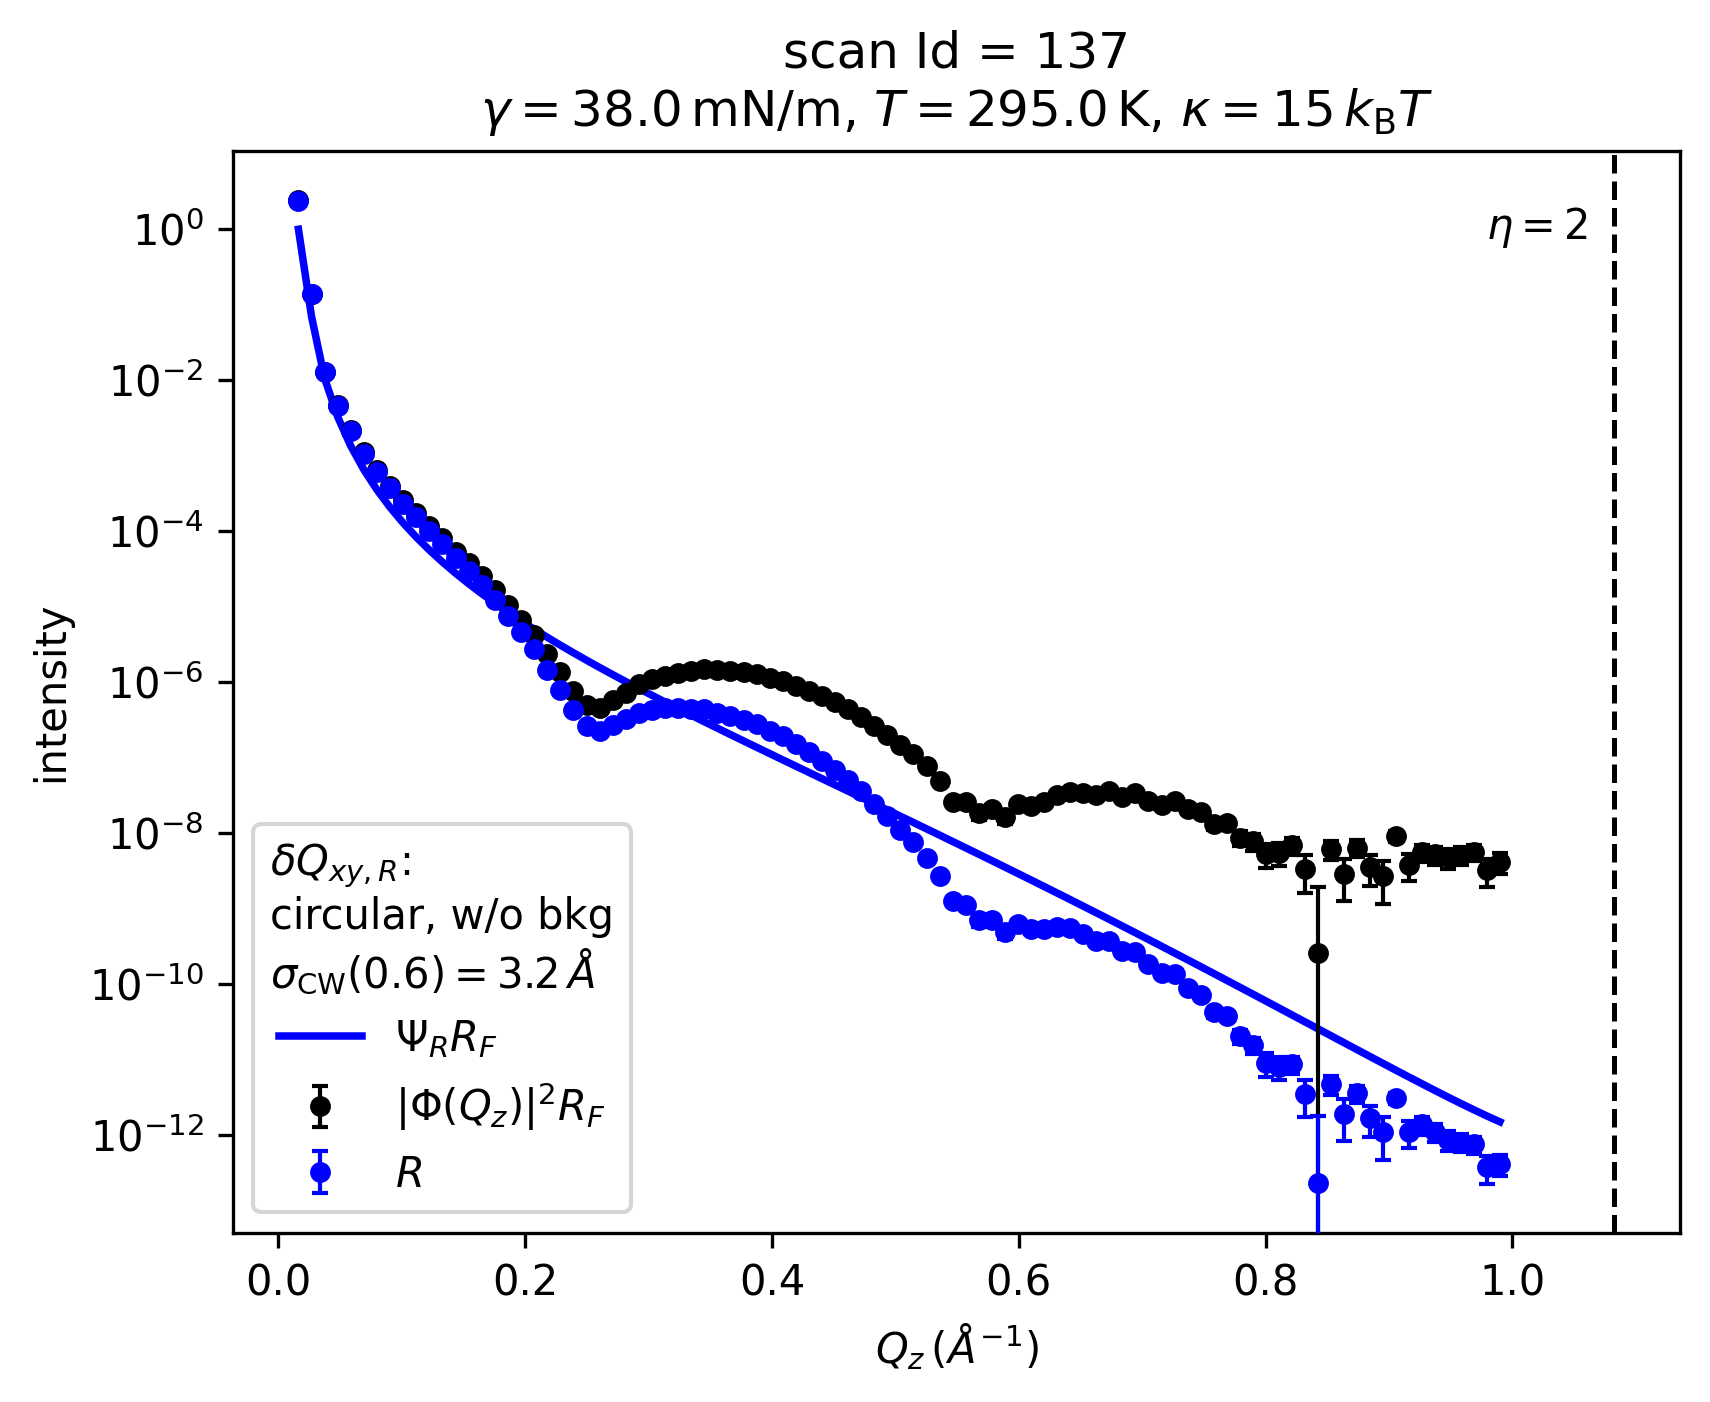
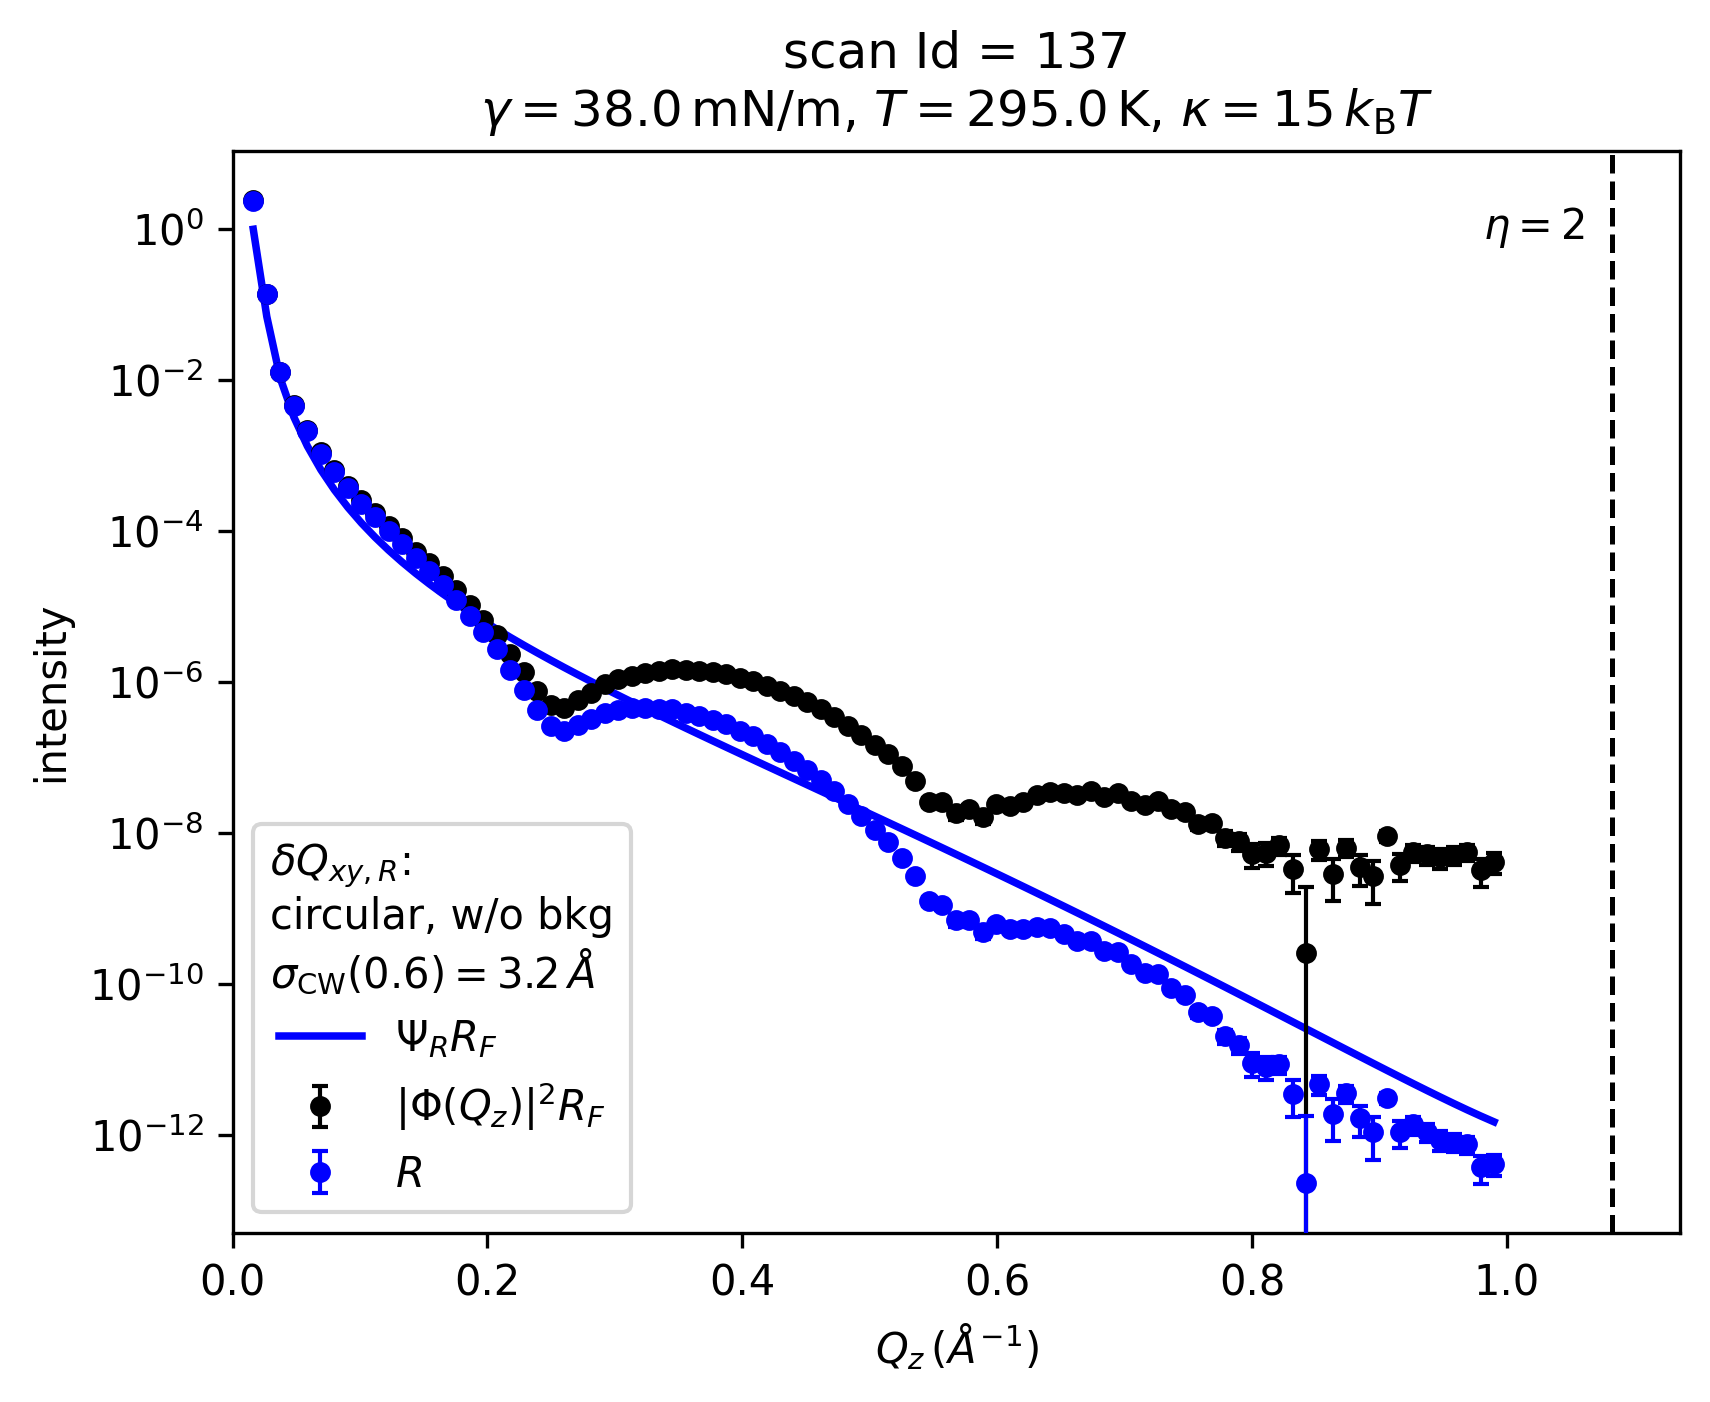
final plotting

diff --git a/pseudo_xrr/plot.py b/pseudo_xrr/plot.py
@@ -7,6 +7,212 @@ Created on Tue Mar 31 11:46:59 2026
 import numpy as np
 import matplotlib.pyplot as plt
 
+def GIXOS_raw_plot(
+    GIXOSdata_q,
+    GIXOSbkg_q,
+    GIXOS_ana,
+    *,
+    metadata=None,
+    title=None,
+    show=True,
+    add_top_qz_axis=True
+):
+    """
+    Plot the effect of GIXOS background correction for the selected qxy0 column.
+
+    This function compares, at the selected qxy0 column:
+
+    - raw GIXOS data
+    - chamber background
+    - chamber-background-subtracted data
+    - bulk background used for subtraction
+    - final corrected data with error bars
+
+    The x-axis is beta (deg), taken from the "tt" field. Optionally, a top
+    axis showing Qz is added if Qz information is available.
+
+    Parameters
+    ----------
+    GIXOSdata_q : dict
+        Raw sample data dictionary after conversion to q-space.
+
+    GIXOSbkg_q : dict
+        Chamber background data dictionary after conversion to q-space.
+
+    GIXOS_ana : dict
+        Output dictionary from `GIXOS_background_corr()`.
+
+    metadata : dict, optional
+        Metadata dictionary. If None, `GIXOS_ana["metadata"]` is used.
+
+    title : str, optional
+        Plot title.
+
+    show : bool, optional
+        If True, show the figure. Default is True.
+
+    add_top_qz_axis : bool, optional
+        If True and Qz is available, add a top x-axis labelled by Qz.
+        Default is True.
+
+    Returns
+    -------
+    fig : matplotlib.figure.Figure
+        The generated figure.
+
+    ax : matplotlib.axes.Axes
+        Main axes.
+    """
+    if metadata is None:
+        metadata = GIXOS_ana.get("metadata", None)
+
+    if metadata is None:
+        raise ValueError("metadata is required either explicitly or in GIXOS_ana['metadata'].")
+
+    if "PseudoR" not in metadata or metadata["PseudoR"] is None:
+        raise ValueError("metadata['PseudoR'] is required.")
+    if "qxy0_select_idx" not in metadata["PseudoR"]:
+        raise ValueError("metadata['PseudoR']['qxy0_select_idx'] is required.")
+
+    col_idx = int(metadata["PseudoR"]["qxy0_select_idx"])
+
+    # x-axis: beta / tt
+    beta = np.asarray(GIXOSdata_q["tt"], dtype=float).ravel()
+
+    # raw sample and chamber background
+    y_raw = np.asarray(GIXOSdata_q["Intensity"][:, col_idx], dtype=float).ravel()
+    y_bkg = np.asarray(GIXOSbkg_q["Intensity"][:, col_idx], dtype=float).ravel()
+
+    # chamber-subtracted data
+    y_chamber_sub = y_raw - y_bkg
+
+    # bulk background at selected column
+    if "bulkbkg" not in GIXOS_ana or GIXOS_ana["bulkbkg"] is None:
+        y_bulk = np.full_like(beta, np.nan, dtype=float)
+    else:
+        if "Intensity_at_GIXOS" in GIXOS_ana["bulkbkg"] and GIXOS_ana["bulkbkg"]["Intensity_at_GIXOS"] is not None:
+            bulk_arr = np.asarray(GIXOS_ana["bulkbkg"]["Intensity_at_GIXOS"], dtype=float)
+
+            if bulk_arr.ndim == 2:
+                # if corrected data has had bulk columns removed, shapes may differ
+                if bulk_arr.shape[1] > col_idx:
+                    y_bulk = bulk_arr[:, col_idx].ravel()
+                else:
+                    # fallback: use the last available column if selected col was removed
+                    y_bulk = bulk_arr[:, -1].ravel()
+            else:
+                y_bulk = bulk_arr.ravel()
+        else:
+            y_bulk = np.full_like(beta, np.nan, dtype=float)
+
+    # corrected data and error
+    y_corr = np.asarray(GIXOS_ana["Intensity"][:, col_idx], dtype=float).ravel()
+    err_corr = np.asarray(GIXOS_ana["error"][:, col_idx], dtype=float).ravel()
+
+    fig, ax = plt.subplots(figsize=(5.8, 4.5))
+
+    ax.plot(beta, y_raw, color="k", linewidth=1.4, label="raw GIXOS")
+    ax.plot(beta, y_bkg, color="gray", linewidth=1.4, label="chamber bkg")
+    ax.plot(beta, y_chamber_sub, color="b", linewidth=1.4, label="raw - chamber bkg")
+
+    if np.any(np.isfinite(y_bulk)):
+        ax.plot(beta, y_bulk, color="orange", linewidth=1.6, label="bulk bkg")
+
+    ax.errorbar(
+        beta, y_corr, yerr=err_corr,
+        fmt="o", markersize=4,
+        color="r", ecolor="r",
+        elinewidth=1, capsize=2,
+        label="corrected"
+    )
+
+    ax.axhline(0, color="k", linestyle="--", linewidth=1.0, alpha=0.7)
+
+    ax.set_xlabel(r"$\beta\;[\mathrm{deg}]$")
+    ax.set_ylabel("intensity")
+
+    # title
+    title_lines = []
+    if title is not None:
+        title_lines.append(title)
+    else:
+        title_lines.append("GIXOS background correction")
+
+    if "measurements" in metadata and metadata["measurements"] is not None:
+        scan_val = metadata["measurements"].get("scan", None)
+        if scan_val is not None:
+            scan_arr = np.asarray(scan_val).ravel()
+            if scan_arr.size == 1:
+                title_lines.append(f"scan Id = {int(scan_arr[0])}")
+            elif scan_arr.size > 1:
+                title_lines.append(f"scan Id = {int(np.min(scan_arr))} - {int(np.max(scan_arr))}")
+
+    ax.set_title("\n".join(title_lines))
+
+    ax.legend()
+    
+    # ------------------------------------------------------------
+    # set y-limits using only data above 2*Qc
+    # ------------------------------------------------------------
+    if "sample_params" in metadata and metadata["sample_params"] is not None:
+        Qc = metadata["sample_params"].get("Qc", None)
+    else:
+        Qc = None
+    
+    if Qc is not None and "Qz" in GIXOSdata_q:
+        qz_arr = np.asarray(GIXOSdata_q["Qz"][:, col_idx], dtype=float).ravel()
+        mask_ylim = qz_arr > 2.0 * float(Qc)
+    
+        if np.count_nonzero(mask_ylim) > 3:
+            y_for_ylim = []
+    
+            for arr in [y_raw, y_bkg, y_chamber_sub, y_bulk, y_corr]:
+                arr = np.asarray(arr, dtype=float).ravel()
+                if arr.size == qz_arr.size:
+                    vals = arr[mask_ylim]
+                    vals = vals[np.isfinite(vals)]
+                    if vals.size > 0:
+                        y_for_ylim.append(vals)
+    
+            if len(y_for_ylim) > 0:
+                y_for_ylim = np.concatenate(y_for_ylim)
+    
+                ymin = np.min(y_for_ylim)
+                ymax = np.max(y_for_ylim)
+    
+                if np.isfinite(ymin) and np.isfinite(ymax) and ymax > ymin:
+                    pad = 0.05 * (ymax - ymin)
+                    ax.set_ylim(ymin - pad, ymax + pad)
+    
+    xmin, xmax = ax.get_xlim()
+    ax.set_xlim(left=0, right=xmax)
+    fig.tight_layout()
+
+    # optional top axis: Qz
+    if add_top_qz_axis and "Qz" in GIXOSdata_q:
+        qz_arr = np.asarray(GIXOSdata_q["Qz"][:, col_idx], dtype=float).ravel()
+
+        if qz_arr.size == beta.size and beta.size > 1:
+            ax_top = ax.twiny()
+            ax_top.set_xlim(ax.get_xlim())
+
+            # choose a few tick positions from bottom axis and map nearest beta->Qz
+            beta_ticks = ax.get_xticks()
+            qz_ticklabels = []
+            for bt in beta_ticks:
+                idx = int(np.argmin(np.abs(beta - bt)))
+                qz_ticklabels.append(f"{qz_arr[idx]:.2f}")
+
+            ax_top.set_xticks(beta_ticks)
+            ax_top.set_xticklabels(qz_ticklabels)
+            ax_top.set_xlabel(r"$Q_z\;[\AA^{-1}]$")
+
+    if show:
+        plt.show()
+
+    return fig, ax
+
+
 # -----------------------------------------------------------------------------
 # qxy dependence fit / predict and kappa value
 # -----------------------------------------------------------------------------
@@ -413,6 +619,8 @@ def GIXOS_RRF_plot(
     # -------------------------------------------------------------------------
 
     ax.legend(title=legend_title, title_fontsize=10)
+    xmin, xmax = ax.get_xlim()
+    ax.set_xlim(left=0, right=xmax) 
     fig.tight_layout()
 
     if show:
@@ -622,6 +830,9 @@ def GIXOS_R_plot(
         ax.set_title("Reflectivity analysis")
 
     ax.legend(title=legend_title, title_fontsize=10)
+    
+    xmin, xmax = ax.get_xlim()
+    ax.set_xlim(left=0, right=xmax)
     fig.tight_layout()
 
     if show:

diff --git a/p08_test_pXRR.py b/p08_test_pXRR.py
@@ -38,22 +38,16 @@ GIXOSbkg_q = GIXOS_th2q(GIXOSbkg)
 GIXOS_ana = GIXOS_background_corr(GIXOSdata_q, GIXOSbkg_q, bulkbkg_mode = 2, bulkbkg_offset_lb=0.9)
 
 #%%
-# Create the plot
-plt.figure()
-plt.plot(GIXOSdata["tt"], GIXOSdata["Intensity"][:,2])
-plt.plot(GIXOSbkg["tt"], GIXOSbkg["Intensity"][:,2])
-plt.plot(GIXOSdata["tt"], GIXOSdata["Intensity"][:,2]-GIXOSbkg["Intensity"][:,2])
-plt.errorbar(GIXOS_ana["tt"], GIXOS_ana["Intensity"][:,2], yerr = GIXOS_ana["error"][:,2], fmt ='o', markersize = 1, capsize = 3)
-plt.plot(GIXOS_ana["tt"], GIXOS_ana["bulkbkg"]["Intensity_at_GIXOS"][:,2])
-# Set log10 scale on the y-axis
-#plt.yscale('log')
-# Add labels and title
-plt.xlabel("X values")
-plt.ylabel("Y values (log scale)")
-plt.ylim([0, np.max(GIXOSdata["Intensity"][20:,2])*2])
-plt.legend()
-plt.grid(True, which="both", ls="--", lw=0.5)
-plt.show()
+fig_GIXOS, ax_GIXOS = GIXOS_raw_plot(
+    GIXOSdata_q,
+    GIXOSbkg_q,
+    GIXOS_ana,
+    metadata=GIXOS_ana["metadata"],
+    show=False
+)
+
+outfile = make_filename(GIXOS_ana["metadata"], suffix="GIXOS.png")
+fig_GIXOS.savefig(outfile, dpi=300, bbox_inches="tight")
 
 #%% from here on the operation will directly add results into the original dictionary variable (shared memory)
 #%% qxy dependence
@@ -61,26 +55,6 @@ _, qxy_dependence_fit = GIXOS_qxy_dependence(GIXOS_ana, GIXOS_ana['metadata']['d
 
 #%% processing pseudo
 _ = GIXOS2R(GIXOS_ana, transmission_corr = True, footprint_effect=True, use_approx=True)
-
-# #%%
-# RFscaling_ref = GIXOS_ana["metadata"]['I0'] * GIXOS_ana["metadata"]['sample_params']['rho_b'] ** 2 / np.sin(np.radians(GIXOS_ana["metadata"]['instrument']['alpha'])) *GIXOS_ana['talpha_sqr']
-
-# # Create the plot
-# plt.figure()
-# plt.plot(SF_ref[:,0],SF_ref[:,1]/RFscaling_ref/ (pi / 180) ** 2, label = 'matlab structure factor')
-# plt.errorbar(GIXOS_ana["refl"][:,0], GIXOS_ana["refl"][:,1]/GIXOS_ana["fresnel"][:,1], GIXOS_ana["refl"][:,2]/GIXOS_ana["fresnel"][:,1], fmt ='o', markersize = 1, capsize = 3, label = 'pseudoR')
-# plt.plot(R_ref[:,0],R_ref[:,1]/(0.0218/2/R_ref[:,0])**4/RFscaling_ref/ (pi / 180) ** 2, label = 'matlab pseudoR')
-# plt.errorbar(GIXOS_ana["SF"][:,0], GIXOS_ana["SF"][:,1], GIXOS_ana["SF"][:,2], fmt ='o', markersize = 1, capsize = 3, label = 'structure factor')
-# # Set log10 scale on the y-axis
-# plt.yscale('log')
-# # Add labels and title
-# plt.xlabel("X values")
-# plt.ylabel("Y values rad (log scale)")
-# plt.ylim([1e-7, 10])
-# plt.legend()
-# plt.grid(True, which="both", ls="--", lw=0.5)
-# plt.show()
-
 
 #%% work for qxy dependence
 # np.savetxt("D:/intensity.dat", qxy_dependence["I_sum"])

diff --git a/OPLS_test_pXRR.py b/OPLS_test_pXRR.py
@@ -30,22 +30,17 @@ GIXOSbkg_q = GIXOS_th2q(GIXOSbkg)
 GIXOS_ana = GIXOS_background_corr(GIXOSdata_q, GIXOSbkg_q, bulkbkg_mode = 0, bulkbkg_const_mode= 1, bulkbkg_const_qz_lb= 0.7)
 
 #%%
-# Create the plot
-plt.figure()
-plt.plot(GIXOSdata["tt"], GIXOSdata["Intensity"][:,1])
-plt.plot(GIXOSbkg["tt"], GIXOSbkg["Intensity"][:,1])
-plt.plot(GIXOSdata["tt"], GIXOSdata["Intensity"][:,1]-GIXOSbkg["Intensity"][:,1])
-plt.errorbar(GIXOS_ana["tt"], GIXOS_ana["Intensity"][:,1], yerr = GIXOS_ana["error"][:,1], fmt ='o', markersize = 1, capsize = 3)
-plt.plot(GIXOS_ana["tt"], GIXOS_ana["bulkbkg"]["Intensity_at_GIXOS"][:,1])
-# Set log10 scale on the y-axis
-#plt.yscale('log')
-# Add labels and title
-plt.xlabel("X values")
-plt.ylabel("Y values (log scale)")
-plt.ylim([0, 20000])
-plt.legend()
-plt.grid(True, which="both", ls="--", lw=0.5)
-plt.show()
+fig_GIXOS, ax_GIXOS = GIXOS_background_corr_plot(
+    GIXOSdata_q,
+    GIXOSbkg_q,
+    GIXOS_ana,
+    metadata=GIXOS_ana["metadata"],
+    show=False
+)
+
+outfile = make_filename(GIXOS_ana["metadata"], suffix="GIXOS.png")
+fig_GIXOS.savefig(outfile, dpi=300, bbox_inches="tight")
+
 
 #%% from here on the operation will directly add results into the original dictionary variable (shared memory)
 #%% qxy dependence
